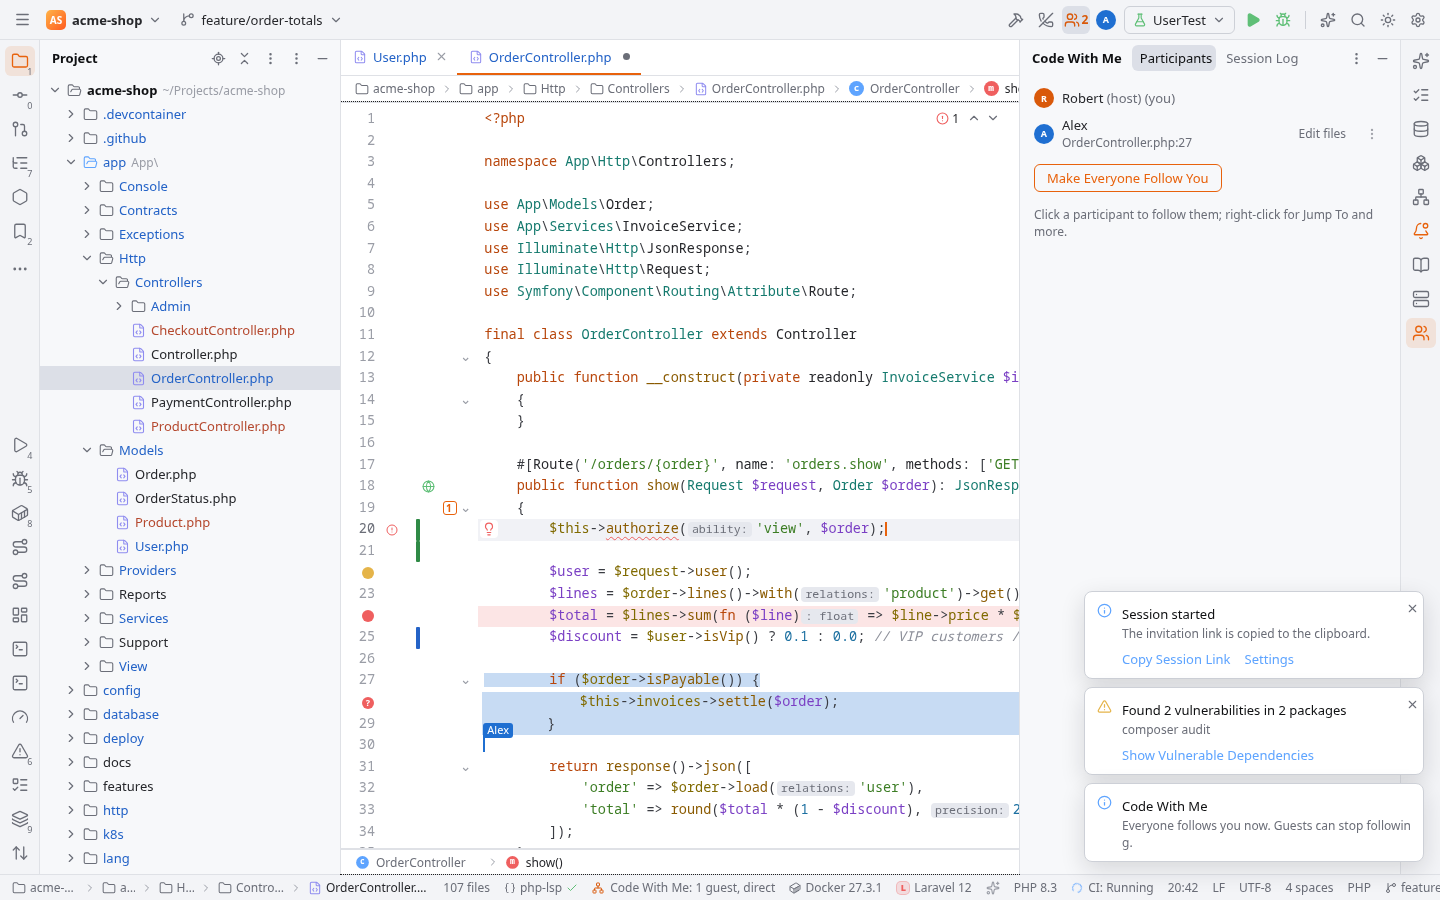
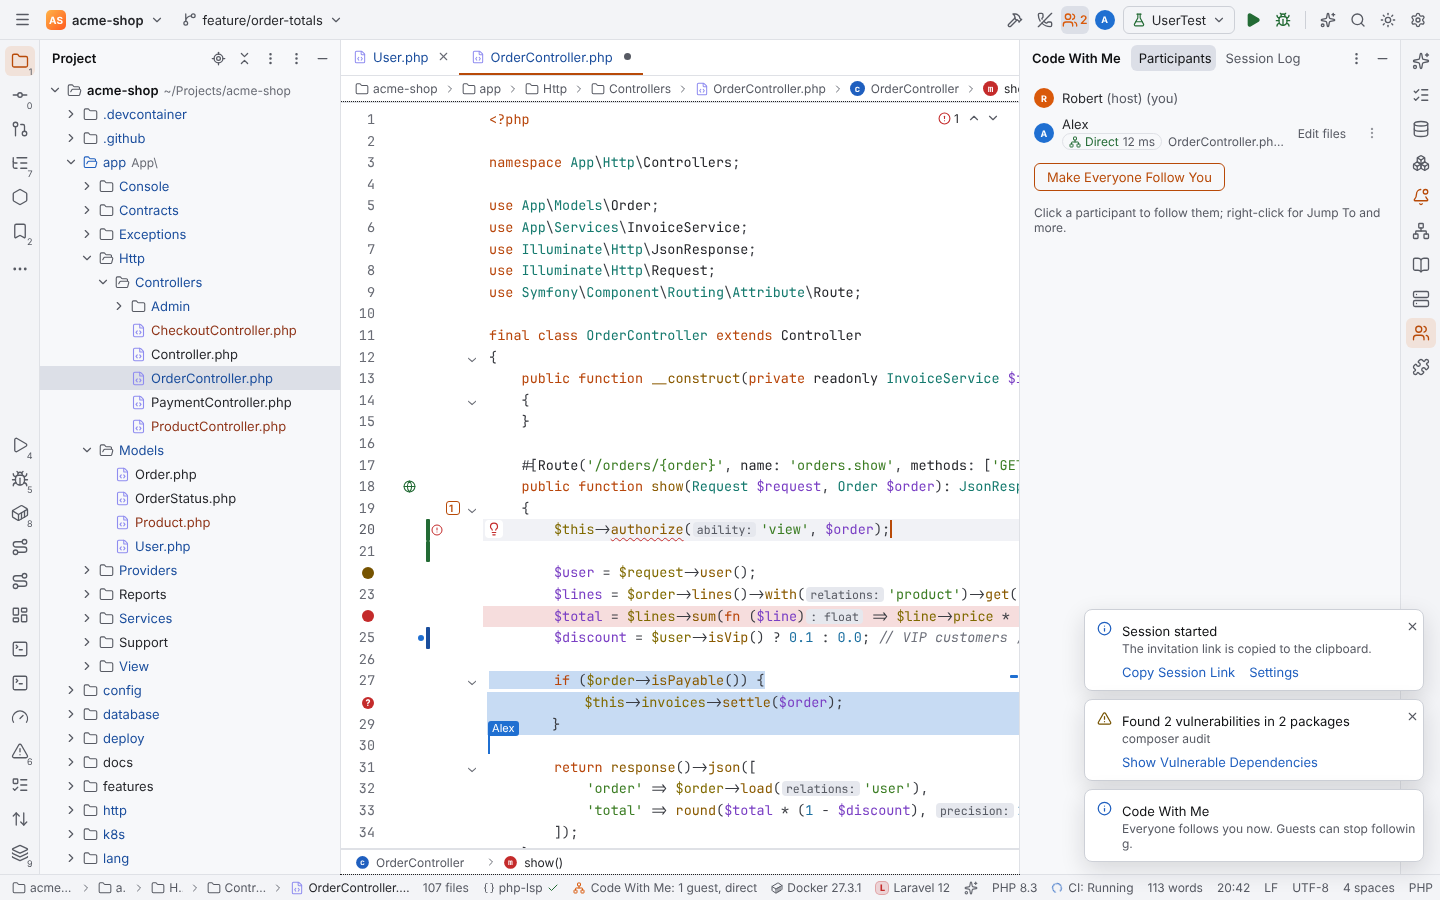
feat: show connection paths in the Code With Me tool window

diff --git a/app/ui/src/features/code-with-me/ToolWindow.test.tsx b/app/ui/src/features/code-with-me/ToolWindow.test.tsx
@@ -1,0 +1,80 @@
+/**
+ * The Code With Me tool window's Participants tab shows each connection's path like the session
+ * popup: hosts see one for every guest, guests only for the host, plus the relay state.
+ */
+import { afterEach, describe, expect, it } from "vitest";
+import { render } from "solid-js/web";
+import { PRESETS, type SessionView } from "@/ipc/collab";
+import { applySession } from "./store";
+import { CodeWithMeToolWindow } from "./ToolWindow";
+
+const participants: SessionView["participants"] = [
+  { id: 0, name: "Robert", role: "host", color: 1, permissions: PRESETS.fullAccess },
+  { id: 1, name: "Alex", role: "guest", color: 2, permissions: PRESETS.readOnly },
+  { id: 2, name: "Sam", role: "guest", color: 3, permissions: PRESETS.editFiles },
+];
+
+const hostSession: SessionView = {
+  role: "host",
+  canHost: true,
+  me: 0,
+  participants,
+  files: [],
+  connections: [{ participant: 1, kind: "direct", remote: "192.168.1.42:41641", rttMs: 4 }],
+};
+
+const guestSession: SessionView = {
+  role: "guest",
+  canHost: true,
+  me: 1,
+  participants,
+  files: [],
+  connections: [{ participant: 0, kind: "relay", remote: "https://relay.example.com/", rttMs: 59 }],
+  relay: { url: "https://relay.example.com/", connected: true },
+};
+
+const row = (id: number) => document.querySelector(`.cwm-tool-window .cwm-participant[data-participant="${id}"]`)!;
+
+let dispose: (() => void) | undefined;
+
+function show(s: SessionView): void {
+  applySession(s);
+  dispose = render(() => <CodeWithMeToolWindow />, document.body);
+}
+
+afterEach(() => {
+  dispose?.();
+  dispose = undefined;
+  document.body.innerHTML = "";
+});
+
+describe("Code With Me tool window", () => {
+  it("shows the host the path of every guest", () => {
+    show(hostSession);
+    expect(row(1).querySelector('.cwm-path[data-path="direct"]')?.textContent).toBe("Direct4 ms");
+    expect(row(2).querySelector(".cwm-path.pending")?.textContent).toBe("Connecting…");
+    expect(row(0).querySelector(".cwm-path")).toBeNull();
+    expect(document.querySelector("[data-testid=cwm-relay-status]")).toBeNull();
+  });
+
+  it("shows a reconnecting guest as Reconnecting… once", () => {
+    show({ ...hostSession, participants: participants.map((p) => (p.id === 1 ? { ...p, reconnecting: true } : p)) });
+    expect(row(1).querySelectorAll(".cwm-participant-reconnecting").length).toBe(1);
+    expect(row(1).querySelector(".cwm-participant-reconnecting")?.textContent).toBe("Reconnecting…");
+    expect(row(1).querySelector('.cwm-path[data-path="direct"]')).toBeNull();
+  });
+
+  it("shows a guest only the path to the host, and the relay state", () => {
+    show(guestSession);
+    expect(row(0).querySelector('.cwm-path[data-path="relay"]')?.textContent).toBe("Relay (relay.example.com)59 ms");
+    expect(row(1).querySelector(".cwm-path")).toBeNull();
+    expect(row(2).querySelector(".cwm-path")).toBeNull();
+    expect(document.querySelector("[data-testid=cwm-relay-status]")?.textContent).toBe("Relay server relay.example.com connected");
+  });
+
+  it("keeps the participant rows keyboard reachable", () => {
+    show(hostSession);
+    expect(row(1).getAttribute("data-nav")).toBe("");
+    expect(row(1).querySelector("button.cwm-participant-menu")?.getAttribute("aria-label")).toBe("Actions for Alex");
+  });
+});

diff --git a/app/ui/src/features/code-with-me/ToolWindow.tsx b/app/ui/src/features/code-with-me/ToolWindow.tsx
@@ -1,11 +1,13 @@
 /**
  * The Code With Me tool window (right, only while a session runs): the Participants tab
- * with Follow, Jump To and the host's guest actions, and the host's Session Log tab.
+ * with each connection's path (Direct / Relay, Connecting…, Reconnecting…), the relay state,
+ * Follow, Jump To and the host's guest actions, and the host's Session Log tab.
  */
 import { createSignal, For, Show } from "solid-js";
 import { runCommand } from "@/state/commands";
 import { session } from "./store";
 import { Participants } from "./Participants";
+import { RelayLine } from "./ConnectionStatus";
 import { SessionLogList } from "./SessionLog";
 import { followState } from "./follow";
 import { navKeys } from "./a11y";
@@ -58,7 +60,8 @@ export function CodeWithMeToolWindow() {
         when={tab() === "log" && session().role === "host"}
         fallback={
           <>
-            <Participants />
+            <Participants paths />
+            <RelayLine />
             <div class="cwm-tool-actions">
               <Show when={followState().leader !== null}>
                 <button class="btn-secondary" data-action="CodeWithMe.StopFollowing" onClick={() => void runCommand("CodeWithMe.StopFollowing")}>

diff --git a/app/ui/src/features/code-with-me/ConnectionStatus.tsx b/app/ui/src/features/code-with-me/ConnectionStatus.tsx
@@ -1,6 +1,6 @@
 /**
  * How the Code With Me connections travel: a badge per connection (Direct / Relay) in the
- * participant rows of the popup, the relay state and the status bar item.
+ * participant rows of the popup and the tool window, the relay state and the status bar item.
  */
 import { Show } from "solid-js";
 import { Network, TriangleAlert, Waypoints } from "lucide-solid";
@@ -25,7 +25,7 @@ export function PathBadge(props: { path: ConnectionPath }) {
 }
 
 /**
- * The connection of a participant row in the session popup: the path badge, "Connecting…" or
+ * The connection of a participant row in the session popup and the tool window: the path badge, "Connecting…" or
  * "Reconnecting…". Hosts see it for every guest, guests for the host (guests are not
  * connected to each other).
  */

diff --git a/app/ui/src/features/code-with-me/Participants.tsx b/app/ui/src/features/code-with-me/Participants.tsx
@@ -82,9 +82,9 @@ function whereText(p: Participant): string {
 }
 
 /**
- * The participant rows. `paths` (the session popup) adds each connection's path (Direct /
- * Relay, Connecting…, Reconnecting…) below the name, so the popup has a single participant
- * list.
+ * The participant rows. `paths` (the session popup and the tool window) adds each
+ * connection's path (Direct / Relay, Connecting…, Reconnecting…) below the name, so there is a
+ * single participant list.
  */
 export function Participants(props: { paths?: boolean }) {
   const s = () => session();

diff --git a/docs/guide/user/code-with-me.md b/docs/guide/user/code-with-me.md
@@ -149,8 +149,11 @@ A guest is never told the name of a file it may not see: while the host is in `.
 hidden file, guests see the host without a location and following guests stay where they are.
 
 The **Code With Me** tool window (right, while a session runs) lists the participants with the
-same actions, **Stop Following** and, for the host, **Make Everyone Follow You** and the
-**Session Log** tab.
+same actions and, like the popup, how each connection travels (**Direct** or **Relay**, with the
+round-trip time, or **Connecting…** / **Reconnecting…**) and the relay server's state. The host
+sees the path to every guest; a guest sees the path to the host. Below the list are **Stop
+Following** and, for the host, **Make Everyone Follow You**; the host also has the **Session
+Log** tab.
 
 All of these are also in Find Action and Settings | Keymap under Plugins | Code With Me:
 **Follow Participant…** and **Jump To Participant…** (a chooser of the participants), **Stop
